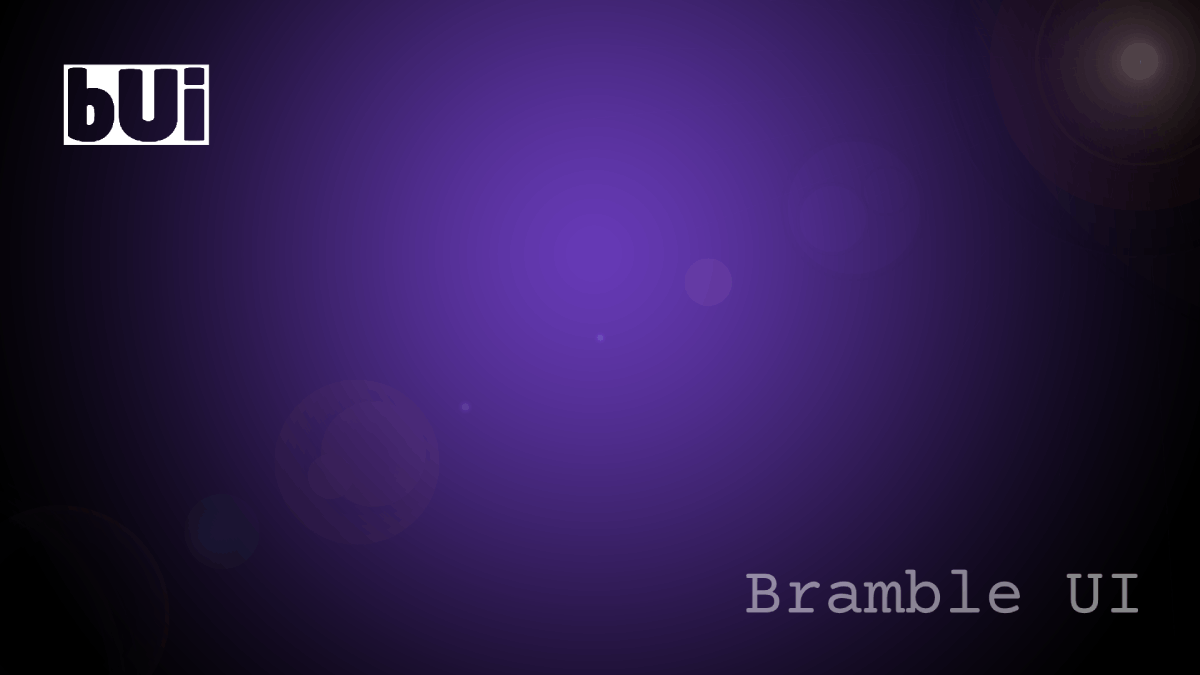
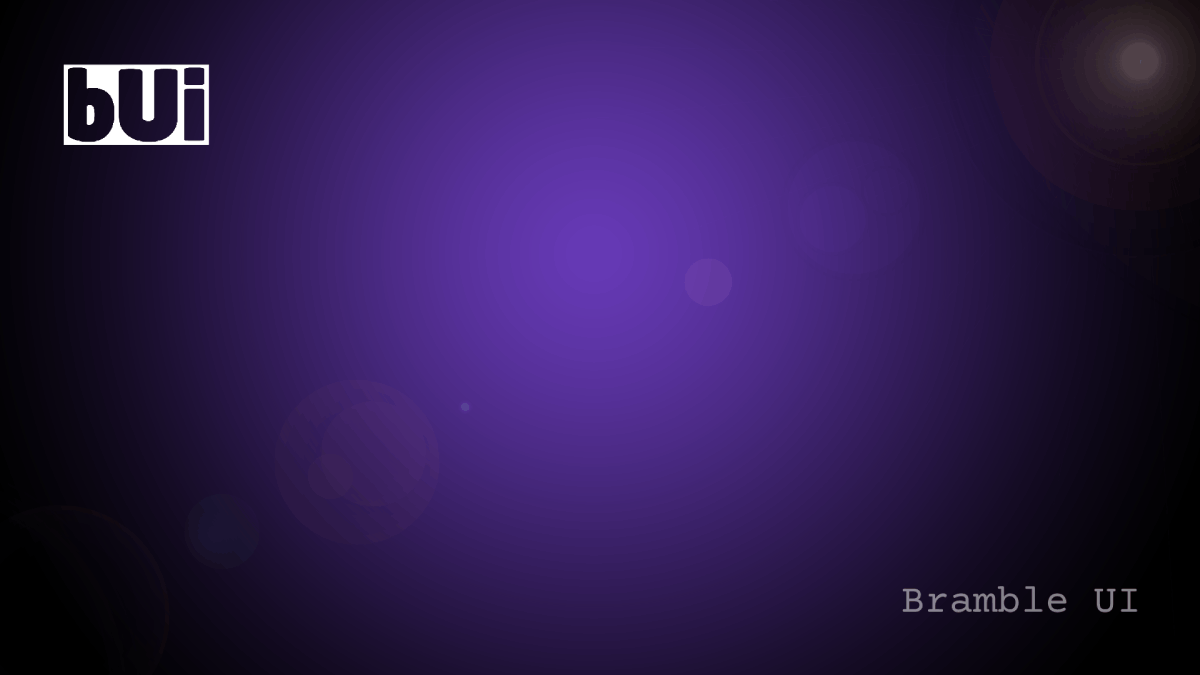
OG Image

Changed region(s): [[0.6167, 0.84, 0.9558, 0.9333]]

diff --git a/app/api/og/route.tsx b/app/api/og/route.tsx
@@ -26,12 +26,11 @@ export async function GET(req: NextRequest) {
 					backgroundColor: 'black',
 					backgroundImage: `url(${host}/og-bg.png)`,
 					padding: '100px',
-					fontFamily: '"Courier Prime" monospace',
 				}}
 			>
 				<h1
 					style={{
-						fontSize: '6rem',
+						fontSize: '4rem',
 						opacity: '.8',
 					}}
 				>

diff --git a/app/components/table/Table.tsx b/app/components/table/Table.tsx
@@ -5,7 +5,7 @@ import TableTemplate from '@/templates/Table'
 const title = 'Table'
 const description = 'Responsive data table with fixed-height option and built-in sorting capability'
 const keywords = 'Table Component'
-const url = 'components/select'
+const url = 'components/table'
 
 export let metadata: any
 
